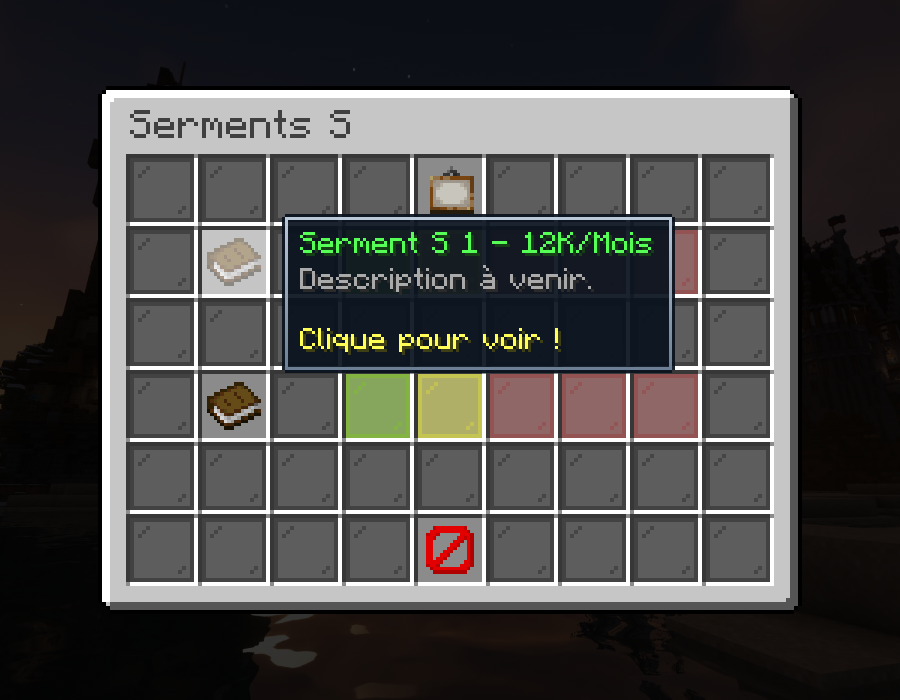
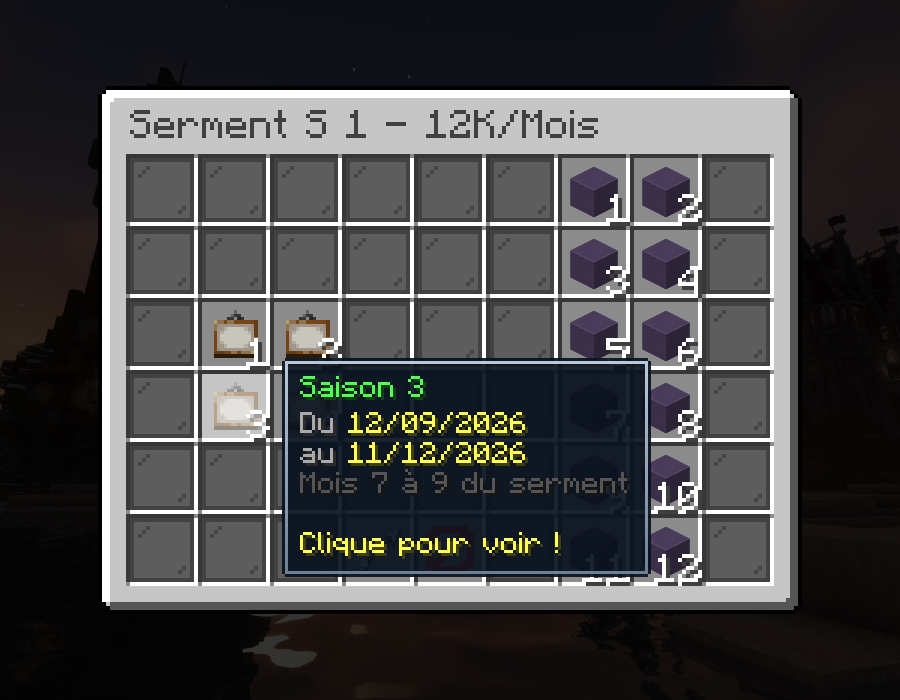
Saisons et rounds : dates calculées depuis la date d'entrée du serment
Saison = 3 mois, round = 1 mois. L'overlay affiche le début, la fin et
les mois du serment concernés.

Claude-Session: https://claude.ai/code/session_019gCBZ2Dy19V3W7UiEquzyT

Changed region(s): [[0.2178, 0.15, 0.7778, 0.84], [0.3111, 0.15, 0.4044, 0.21]]

diff --git a/index.html b/index.html
@@ -96,15 +96,26 @@ function navSlots(previous) {
 // Contenu commun des pages « Serment S … » :
 //   4 tableaux numérotés 1 à 4 (carré 2x2) et 12 blocs de terre cuite bleue numérotés 1 à 12 (2 colonnes x 6 lignes),
 //   numérotés de gauche à droite puis de haut en bas (numéros ajoutés automatiquement, voir numberDuplicates).
+// Une saison = 3 mois, un round = 1 mois, comptés à partir de la date d'entrée (page « Durée des Serments »).
+// Ex. saison 3 = mois 7 à 9 du serment, round 11 = mois 11.
+function periodTooltip(name, firstMonth, lastMonth) {
+  return () => {
+    const months = firstMonth === lastMonth ? `§8Mois ${firstMonth} du serment` : `§8Mois ${firstMonth} à ${lastMonth} du serment`;
+    const period = dates.start
+      ? [`§7Du §e${addMonths(dates.start, firstMonth - 1)}`, `§7au §e${dayBefore(addMonths(dates.start, lastMonth))}`]
+      : ["§7Dates : §cdate d'entrée non définie"];
+    return [name, ...period, months, '', '§eClique pour voir !'];
+  };
+}
 function sermentSlots() {
   const slots = {};
   for (let i = 0; i < 4; i++) {
     const n = i + 1;
-    slots[`${2 + Math.floor(i / 2)},${1 + i % 2}`] = { item: 'painting', tooltip: [`§aSaison ${n}`, ...LORE] };
+    slots[`${2 + Math.floor(i / 2)},${1 + i % 2}`] = { item: 'painting', tooltip: periodTooltip(`§aSaison ${n}`, 3 * i + 1, 3 * n) };
   }
   for (let i = 0; i < 12; i++) {
     const n = i + 1;
-    slots[`${Math.floor(i / 2)},${6 + i % 2}`] = { block: 'blue_terracotta', tooltip: [`§aRound ${n}`, ...LORE] };
+    slots[`${Math.floor(i / 2)},${6 + i % 2}`] = { block: 'blue_terracotta', tooltip: periodTooltip(`§aRound ${n}`, n, n) };
   }
   return slots;
 }
@@ -130,13 +141,23 @@ function dateSlot(field) {
   };
 }
 
-// "12/03/2026" -> "12/03/2027". Un 29/02 donne le 28/02 de l'année suivante.
-function plusOneYear(date) {
+// Calculs sur les dates "JJ/MM/AAAA".
+const pad2 = n => String(n).padStart(2, '0');
+const formatDate = dt => `${pad2(dt.getDate())}/${pad2(dt.getMonth() + 1)}/${dt.getFullYear()}`;
+// Ajoute k mois ; si le jour n'existe pas dans le mois d'arrivée, on prend le dernier jour
+// ("31/01/2026" + 1 mois -> "28/02/2026", "29/02/2028" + 12 mois -> "28/02/2029").
+function addMonths(date, k) {
   const [d, m, y] = date.split('/').map(Number);
-  const lastDay = new Date(y + 1, m, 0).getDate();
-  const pad = n => String(n).padStart(2, '0');
-  return `${pad(Math.min(d, lastDay))}/${pad(m)}/${y + 1}`;
+  const target = new Date(y, m - 1 + k, 1);
+  const lastDay = new Date(target.getFullYear(), target.getMonth() + 1, 0).getDate();
+  target.setDate(Math.min(d, lastDay));
+  return formatDate(target);
 }
+function dayBefore(date) {
+  const [d, m, y] = date.split('/').map(Number);
+  return formatDate(new Date(y, m - 1, d - 1));
+}
+const plusOneYear = date => addMonths(date, 12);
 function endDateSlot() {
   return {
     item: 'clock_00',
